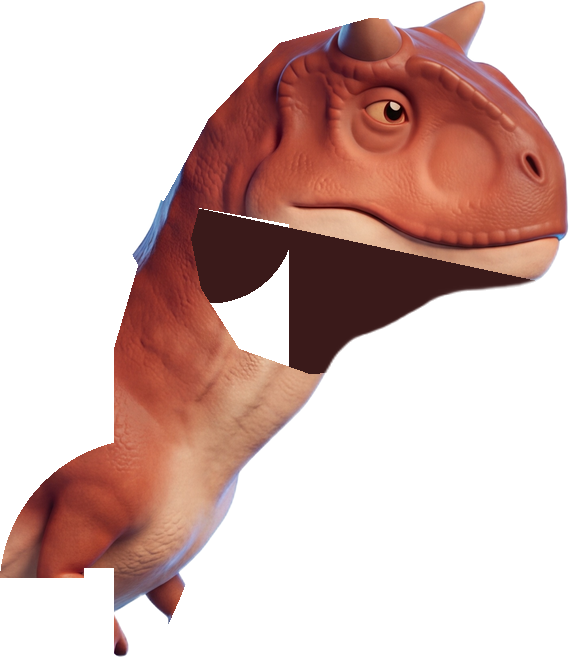
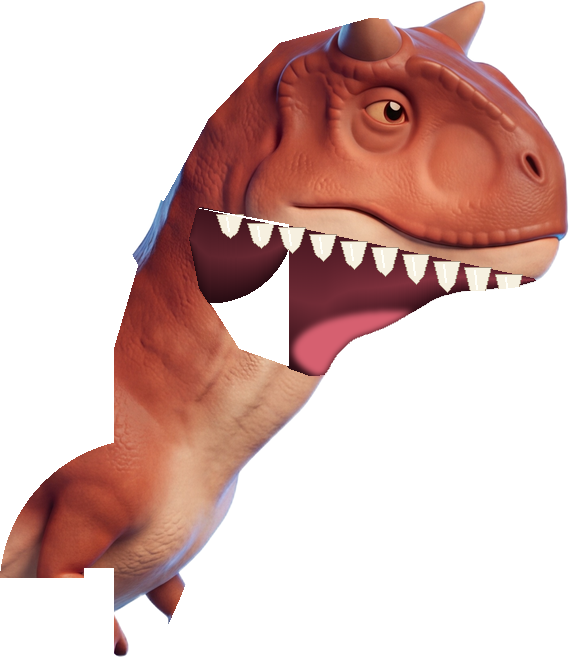
fix: 게임패드 입력 보강(jk 제보) + 입속 칠하기·이빨 + 턱 방향 바로잡기
- 패드: getGamepads 예외(브라우저가 패드를 막은 화면)에도 입력 갱신이 멈추지 않게, 얼굴 버튼 4개·Start 아무거나로 참가, 비표준 배치 십자키(해트 축 9, 축 6/7) 지원
- 제목 화면에 패드 상태 안내(안 보임 → 버튼 한 번 누르기 / N개 보임 / 막힘 → 새 탭에서 열기)
- 패드 회귀 테스트 5개(가짜 navigator.getGamepads): 참가 순서·버튼·십자키·스틱·특수·Start·두 번 탭 엣지·비표준 배치·예외 시 키보드 유지
- 입을 크게 벌리는 6종 head.png의 평평한 입 자리를 입천장 그라데이션·혀·둥근 이빨로 다시 칠함(원본은 head.orig.png 보관)
- 턱 각도: 아티스트 리그는 음수=벌림. 스크립트의 양수 턱 값을 음수로 바꿔 턱이 주둥이를 뚫고 올라가던 문제 수정
- 개발 서버 전용 window.__dev 상태 노출(배포 빌드에는 없음)

Changed region(s): [[0.3286, 0.304, 0.9262, 0.5775]]

diff --git a/src/input/InputManager.test.ts b/src/input/InputManager.test.ts
@@ -229,3 +229,124 @@ describe('조작 A안 (디렉터 확정 2026-10-01)', () => {
     expect(input.isPressed(1, 'confirm')).toBe(false);
   });
 });
+
+/** 가짜 패드(표준 배치). 버튼 17개·축 4개. */
+function fakePad(index: number, mapping = 'standard', axes = 4) {
+  return {
+    index,
+    id: `Fake Pad ${index}`,
+    connected: true,
+    mapping,
+    timestamp: 0,
+    buttons: Array.from({ length: 17 }, () => ({ pressed: false, touched: false, value: 0 })),
+    axes: Array.from({ length: axes }, () => 0),
+  };
+}
+
+describe('게임패드 회귀(jk 제보 2026-10-02)', () => {
+  let pads: ReturnType<typeof fakePad>[] = [];
+  let restoreNav: (() => void) | null = null;
+  beforeEach(() => {
+    pads = [fakePad(0), fakePad(1)];
+    const original = Object.getOwnPropertyDescriptor(globalThis, 'navigator');
+    Object.defineProperty(globalThis, 'navigator', { value: { getGamepads: () => pads }, configurable: true });
+    restoreNav = () => {
+      if (original) Object.defineProperty(globalThis, 'navigator', original);
+    };
+  });
+  afterEach(() => restoreNav?.());
+
+  const press = (p: number, b: number, v = true) => {
+    pads[p].buttons[b].pressed = v;
+    pads[p].buttons[b].value = v ? 1 : 0;
+  };
+
+  it('아래 버튼으로 1P·2P 순서대로 참가하고, 버튼·십자키·스틱이 동작한다', () => {
+    const { win } = createFakeWindow();
+    const input = new InputManager(win);
+    press(0, 0);
+    input.update();
+    expect(input.padIndex(0)).toBe(0);
+    expect(input.isPressed(0, 'confirm')).toBe(true);
+    press(0, 0, false);
+    press(1, 0);
+    input.update();
+    expect(input.padIndex(1)).toBe(1);
+    press(1, 0, false);
+
+    press(0, 2); // 왼쪽 얼굴 = 약
+    press(1, 3); // 위쪽 얼굴 = 강
+    pads[0].axes[0] = 1; // 왼쪽 스틱 오른쪽
+    press(1, 13); // 2P 십자키 아래
+    input.update();
+    expect(input.isPressed(0, 'light')).toBe(true);
+    expect(input.isPressed(1, 'heavy')).toBe(true);
+    expect(input.isHeld(0, 'right')).toBe(true);
+    expect(input.isHeld(1, 'down')).toBe(true);
+    expect(input.isHeld(0, 'down')).toBe(false);
+  });
+
+  it('특수(오른쪽 얼굴 버튼)와 일시정지(Start)', () => {
+    const { win } = createFakeWindow();
+    const input = new InputManager(win);
+    press(0, 0);
+    input.update();
+    press(0, 0, false);
+    input.update();
+    press(0, 1);
+    press(0, 9);
+    input.update();
+    expect(input.isPressed(0, 'special')).toBe(true);
+    expect(input.isPressed(0, 'pause')).toBe(true);
+  });
+
+  it('십자키 두 번 탭이 press 엣지 두 번으로 들어온다(대시 입력)', () => {
+    const { win } = createFakeWindow();
+    const input = new InputManager(win);
+    press(0, 0);
+    input.update();
+    press(0, 0, false);
+    input.update();
+    const edges: boolean[] = [];
+    for (const v of [true, false, true, false]) {
+      press(0, 15, v);
+      input.update();
+      edges.push(input.isPressed(0, 'right'));
+    }
+    expect(edges).toEqual([true, false, true, false]);
+  });
+
+  it('비표준 배치: 해트 축(9)·축 6/7 십자키, 아무 얼굴 버튼으로 참가', () => {
+    pads = [fakePad(0, '', 10)];
+    const { win } = createFakeWindow();
+    const input = new InputManager(win);
+    press(0, 2);
+    input.update();
+    expect(input.padIndex(0)).toBe(0);
+    pads[0].axes[9] = -1 + (2 / 7) * 2; // 오른쪽
+    input.update();
+    expect(input.isHeld(0, 'right')).toBe(true);
+    pads[0].axes[9] = 3.28; // 손 뗌
+    pads[0].axes[7] = 1; // 축 7 아래
+    input.update();
+    expect(input.isHeld(0, 'right')).toBe(false);
+    expect(input.isHeld(0, 'down')).toBe(true);
+  });
+
+  it('브라우저가 패드를 막아 getGamepads가 예외를 던져도 키보드 입력은 계속 된다', () => {
+    Object.defineProperty(globalThis, 'navigator', {
+      value: {
+        getGamepads: () => {
+          throw new Error('SecurityError');
+        },
+      },
+      configurable: true,
+    });
+    const { win, dispatch } = createFakeWindow();
+    const input = new InputManager(win);
+    dispatch('keydown', 'KeyF');
+    expect(() => input.update()).not.toThrow();
+    expect(input.isPressed(0, 'light')).toBe(true);
+    expect(input.padBlocked).toBe(true);
+  });
+});

diff --git a/src/input/InputManager.ts b/src/input/InputManager.ts
@@ -271,17 +271,37 @@ export class InputManager {
 
   // --- 내부 ---
 
+  /**
+   * 패드 목록. 브라우저가 패드 사용을 막으면(다른 사이트 안에 끼워 연 화면의 권한 정책 등)
+   * getGamepads가 예외를 던진다. 그 예외가 입력 갱신 전체를 멈추면 키보드까지 죽으므로
+   * 여기서 삼키고 패드 없음으로 처리한다(jk 제보 2026-10-02 '패드가 안 됨').
+   */
   private readPads(): (Gamepad | null)[] {
-    if (typeof navigator.getGamepads !== 'function') return [];
-    return Array.from(navigator.getGamepads());
+    try {
+      if (typeof navigator === 'undefined' || typeof navigator.getGamepads !== 'function') return [];
+      return Array.from(navigator.getGamepads() ?? []);
+    } catch {
+      if (!this.padBlockedWarned) {
+        this.padBlockedWarned = true;
+        console.warn('[input] 이 화면에서는 브라우저가 게임패드를 막았습니다. 게임 주소를 새 탭에서 직접 열어 주세요.');
+      }
+      this.padBlocked = true;
+      return [];
+    }
   }
+
+  /** 브라우저가 패드를 막았는지(화면 안내용). */
+  padBlocked = false;
+  private padBlockedWarned = false;
 
   private assignJoiningPads(pads: (Gamepad | null)[]): void {
     for (let index = 0; index < pads.length; index++) {
       const pad = pads[index];
       if (!pad || !pad.connected) continue;
       if (this.players.some((slot) => slot.padIndex === index)) continue;
-      if (!pad.buttons[GAMEPAD_JOIN_BUTTON]?.pressed) continue;
+      // 참가: 얼굴 버튼 4개·Start 중 아무거나(표준 배치가 아닌 패드는 아래 버튼 번호가 다르다).
+      const join = [GAMEPAD_JOIN_BUTTON, 1, 2, 3, 9].some((b) => pad.buttons[b]?.pressed);
+      if (!join) continue;
 
       const free = this.players.findIndex((slot) => slot.padIndex === null);
       if (free === -1) continue;
@@ -308,9 +328,18 @@ export class InputManager {
       }
     }
 
+    // 표준 배치가 아닌 패드(일부 블루투스·호환 패드)는 십자키를 '해트' 축 하나로 보낸다.
+    const hat = pad.mapping !== 'standard' && pad.axes.length > HAT_AXIS ? pad.axes[HAT_AXIS] : null;
     for (const direction of DIRECTIONS) {
       if (pad.buttons[GAMEPAD_DPAD[direction]]?.pressed) {
         held[direction] = true;
+      }
+      if (hat !== null && hat !== undefined && hatHas(hat, direction)) held[direction] = true;
+      // 또 다른 비표준 배치: 십자키를 축 6(좌우)·7(상하)로 보낸다.
+      if (pad.mapping !== 'standard' && pad.axes.length >= 8) {
+        const v = direction === 'left' || direction === 'right' ? pad.axes[6] : pad.axes[7];
+        const sign = direction === 'left' || direction === 'up' ? -1 : 1;
+        if ((v ?? 0) * sign > STICK_DEADZONE) held[direction] = true;
       }
       const { axis, sign } = STICK_AXIS[direction];
       const value = pad.axes[axis] ?? 0;
@@ -400,4 +429,13 @@ export class InputManager {
     this.clearSlot(slot);
     this.pause = 'gamepad-disconnected';
   };
+}
+
+/** 해트 축 번호와 값(-1 위, 시계 방향으로 2/7씩, 1.28 이상은 손 뗌). */
+const HAT_AXIS = 9;
+function hatHas(value: number, direction: 'up' | 'down' | 'left' | 'right'): boolean {
+  if (value > 1.1 || value < -1.1) return false;
+  const step = Math.round((value + 1) / (2 / 7)); // 0=위 1=오른위 2=오른 3=오른아래 4=아래 5=왼아래 6=왼 7=왼위
+  const dirs: Record<number, string[]> = { 0: ['up'], 1: ['up', 'right'], 2: ['right'], 3: ['down', 'right'], 4: ['down'], 5: ['down', 'left'], 6: ['left'], 7: ['up', 'left'] };
+  return (dirs[step] ?? []).includes(direction);
 }

diff --git a/src/scenes/BattleScene.ts b/src/scenes/BattleScene.ts
@@ -124,6 +124,14 @@ export class BattleScene extends BaseScene {
     if (import.meta.env.DEV && typeof location !== 'undefined' && location.search.includes('devko=1') && this.match.phase === 'fight') {
       this.match.p2.health = Math.min(this.match.p2.health, 1);
     }
+    // 개발 서버 전용: 확인용으로 현재 상태를 창에 노출(배포 빌드에는 없음).
+    if (import.meta.env.DEV && typeof window !== 'undefined') {
+      (window as unknown as { __dev?: unknown }).__dev = {
+        p1: { x: this.match.p1.x, y: this.match.p1.y, state: this.match.p1.state, dash: this.match.p1.dashFrames, guard: this.match.p1.guardStance, kind: this.match.p1.attack?.move.kind ?? null, meter: this.match.p1.meter },
+        p2: { x: this.match.p2.x, state: this.match.p2.state, guard: this.match.p2.guardStance, hp: this.match.p2.health },
+        phase: this.match.phase,
+      };
+    }
     this.consumeMatchEvents(stage.groundY, settings.screenShake, settings.vibration);
     this.spawnLandingDust(stage.groundY);
     this.effects.update(dt);

diff --git a/src/scenes/TitleScene.ts b/src/scenes/TitleScene.ts
@@ -70,9 +70,17 @@ export class TitleScene extends BaseScene {
       g.globalAlpha = 1;
     });
 
-    drawText(g, '패드의 아래쪽 얼굴 버튼을 누르면 참가합니다', width / 2, 860, {
+    // 패드 상태 안내: 브라우저는 페이지에서 패드 버튼을 한 번 눌러야 패드를 보여 준다.
+    const input = this.context.input;
+    const seen = input.connectedPadCount;
+    const padHint = input.padBlocked
+      ? '이 화면에서는 브라우저가 패드를 막았습니다 · 게임 주소를 새 탭에서 직접 열어 주세요'
+      : seen === 0
+        ? '패드: 아직 안 보임 · 패드 아무 버튼이나 한 번 눌러 주세요'
+        : `패드 ${seen}개 보임 · 아래쪽 얼굴 버튼(A/×)을 누르면 참가합니다`;
+    drawText(g, padHint, width / 2, 860, {
       font: FONTS.body,
-      color: COLORS.textDim,
+      color: input.padBlocked ? '#ff8a7a' : COLORS.textDim,
     });
 
     const p1 = this.context.input.padIndex(0);
